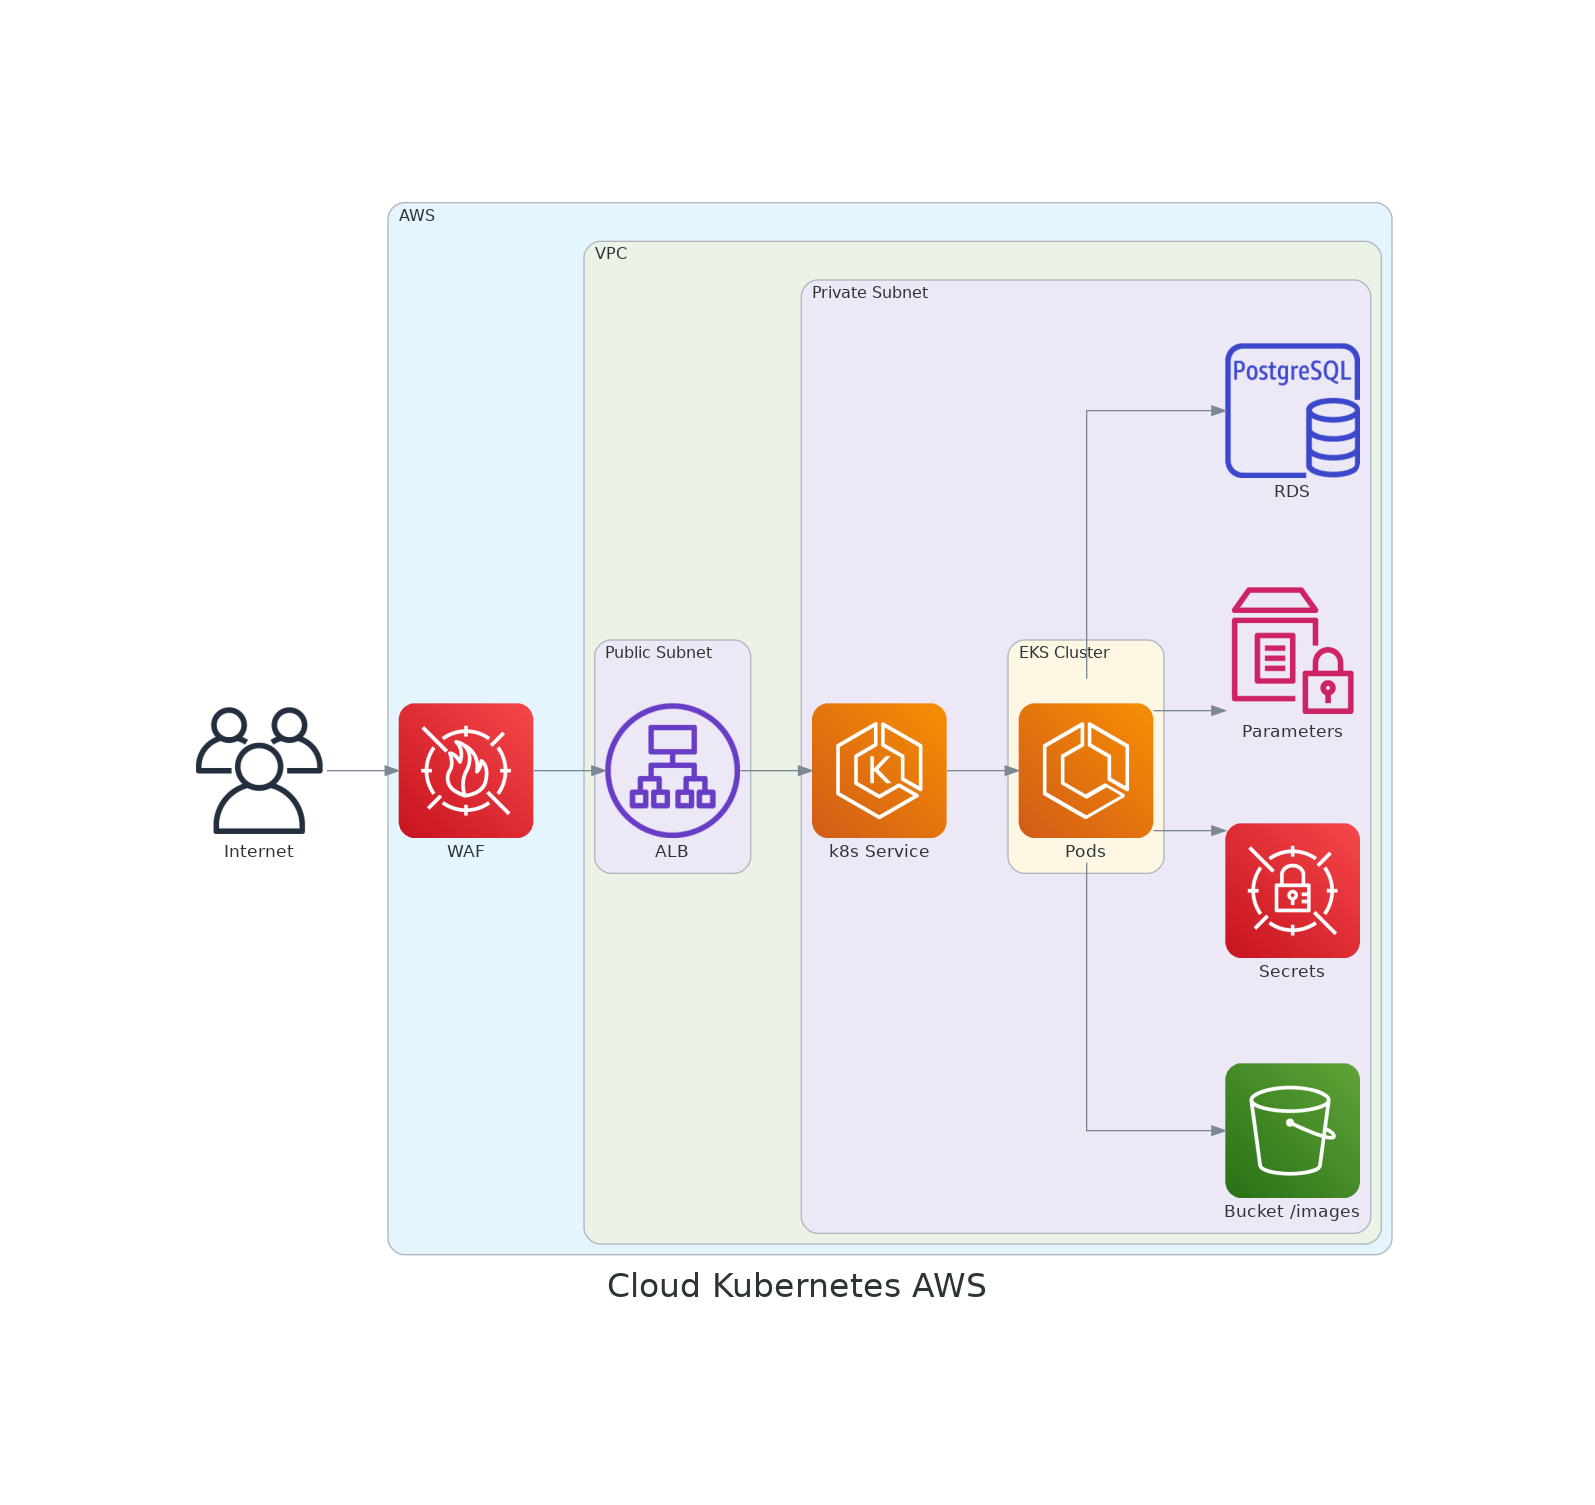
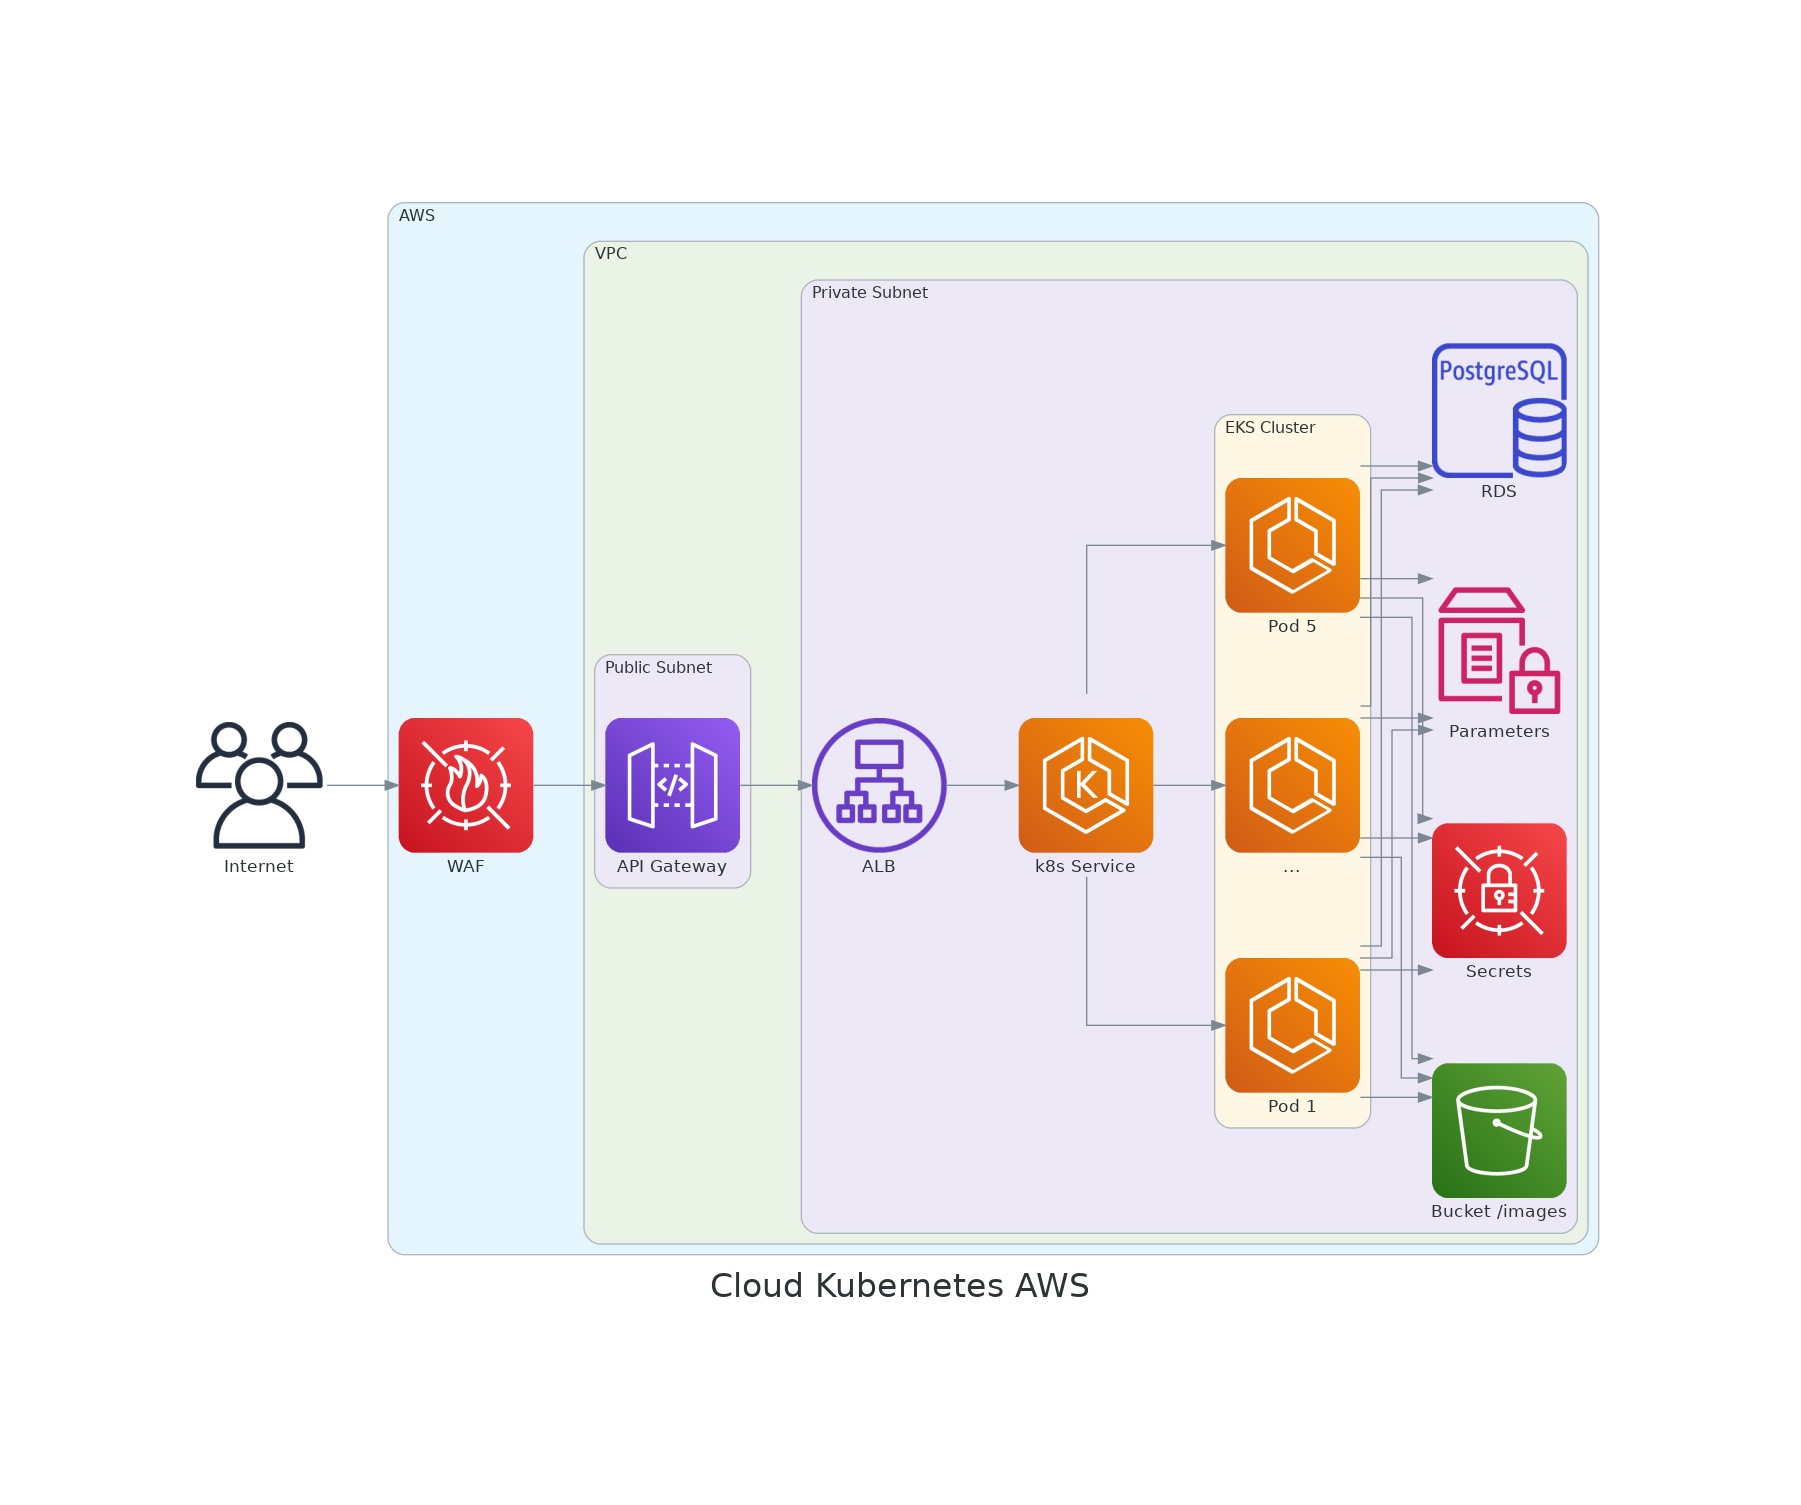
updated aws diagram

diff --git a/docs/infra/cloud_kubernetes_aws.py b/docs/infra/cloud_kubernetes_aws.py
@@ -4,7 +4,7 @@ from diagrams.aws.storage import S3
 from diagrams.aws.security import SecretsManager
 from diagrams.aws.management import SystemsManagerParameterStore as ParameterStore
 from diagrams.aws.database import RDSPostgresqlInstance as RDS
-from diagrams.aws.network import ElbApplicationLoadBalancer as ALB
+from diagrams.aws.network import ElbApplicationLoadBalancer as ALB, APIGateway
 from diagrams.aws.security import WAF
 from diagrams.aws.general import Users
 
@@ -23,10 +23,13 @@ with Diagram("Cloud Kubernetes AWS", show=False, graph_attr=graph_attr):
 
         with Cluster("VPC"):
             with Cluster("Public Subnet"):
-                alb = ALB("ALB")
-                waf >> alb
+                api_gateway = APIGateway("API Gateway")
+                waf >> api_gateway
 
             with Cluster("Private Subnet"):
+                alb = ALB("ALB")
+                api_gateway >> alb
+
                 s3 = S3("Bucket /images")
                 secrets_manager = SecretsManager("Secrets")
                 parameter_store = ParameterStore("Parameters")
@@ -39,11 +42,12 @@ with Diagram("Cloud Kubernetes AWS", show=False, graph_attr=graph_attr):
 
                     pods = []
 
-                    for i in range(0, 1):
-                        pod = ECS("Pods")
+                    labels = ["...", "Pod 1", "Pod 5"]
+
+                    for i in range(0, 3):
+                        pod = ECS(labels[i])
                         pod >> s3
                         pod >> secrets_manager
                         pod >> parameter_store
                         pod >> rds
-
                         pods.append(service >> pod)
